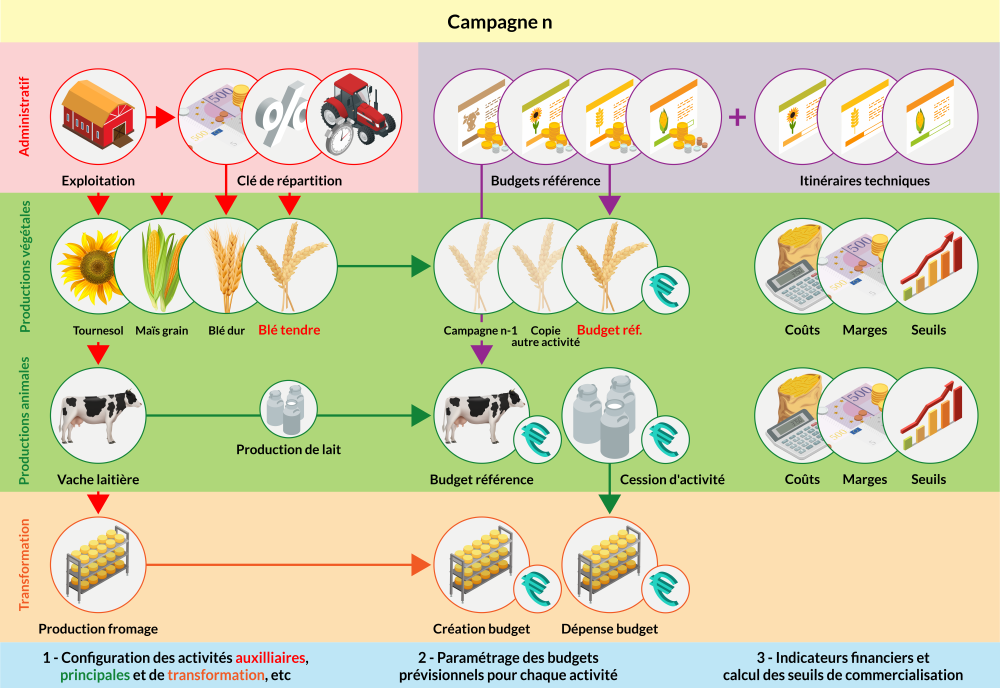
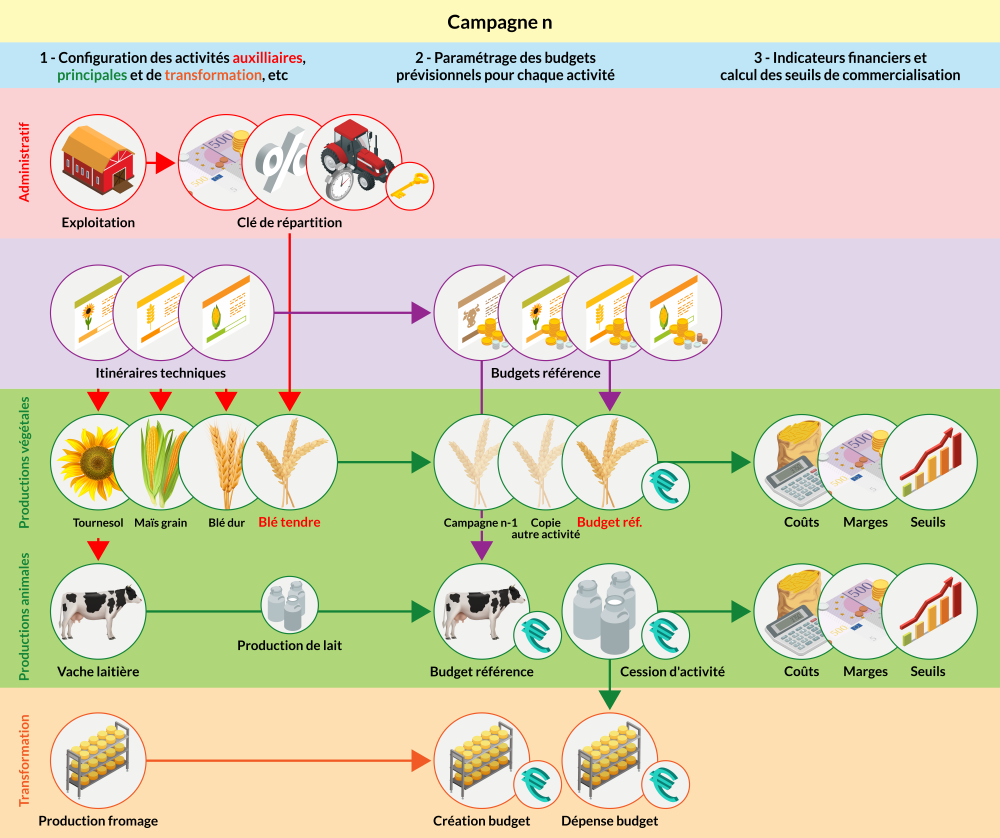
Nouveaux schémas perf.

diff --git a/content/fr/performance.html b/content/fr/performance.html
@@ -356,34 +356,9 @@
       <a class="slice-process" id="config"></a>
 	  <h2 class="texte aerateur">a - Instructions de configuration</h2>
 	  <p class="texte">Dans l'objectif de réaliser avec justesse le paramétrage initial des fonctionnalités proposées dans les offres <strong>Eky</strong>agri et <strong>Eky</strong>viti Performance, il convient de respecter  l'ordre des procédures abordées dans ce chapitre&nbsp;:</p>
-	  <div class="divTableListe marge">
-         <div class="divTableBody">
-            <div class="divTableRow">
-               <div class="divTableCellPlan">
-                  <img src="../images/commun/circle.svg" alt="Puce" height="15">
-               </div>
-               <div class="divTableCellPlan">
-                  Créez et configurez vos activités&nbsp;: administratives, de maintenance, de production &#40;végétales, animales, viticoles&#41;, de transformation, de prestation de service et de vinification&nbsp;;
-               </div>
-            </div>
-			<div class="divTableRow">
-               <div class="divTableCellPlan">
-                  <img src="../images/commun/circle.svg" alt="Puce" height="15">
-               </div>
-               <div class="divTableCellPlan">
-                  Définissez et ajustez le budget prévisionnel de chaque activité ouverte durant la campagne en cours, en fonction des dépenses, des recettes et des pratiques culturales propres à votre exploitation&nbsp;;
-               </div>
-            </div>
-			<div class="divTableRow">
-               <div class="divTableCellPlan">
-                  <img src="../images/commun/circle.svg" alt="Puce" height="15">
-               </div>
-               <div class="divTableCellPlan">
-                  Visualisez les indicateurs financiers et affectez des écritures comptables aux activités de votre choix. Simulez une estimation dynamique des seuils de commercialisation en fonction de vos charges et des prix du marché.
-               </div>
-            </div>
-         </div>
-      </div>
+	  <p class="texte"><strong>1</strong> - Créez et configurez vos activités&nbsp;: administratives, de maintenance, de production &#40;végétales, animales, viticoles&#41;, de transformation, de prestation de service et de vinification&nbsp;;</p>
+	  <p class="texte"><strong>2</strong> - Définissez et ajustez le budget prévisionnel de chaque activité ouverte durant la campagne en cours, en fonction des dépenses, des recettes et des pratiques culturales propres à votre exploitation&nbsp;;</p>
+	  <p class="texte"><strong>3</strong> - Visualisez les indicateurs financiers et affectez des écritures comptables aux activités de votre choix. Simulez une estimation dynamique des seuils de commercialisation en fonction de vos charges et des prix du marché.</p>
 	  <div class="affichage-large"></div>
       <div class="affichage-mobile">
          <p align="center">
@@ -413,10 +388,25 @@
       </div>
       <div class="scroll marge">
          <div class="tableau">
-            <p align="center" class="aerateur-haut aerateur-bas"><img src="../images/performance/schema-activites-perf.png" alt="Schéma activités" data-action="zoom" /></p>
+            <p align="center" class="aerateur-haut"><img src="../images/performance/schema-auxiliaires.png" class="contour-img" alt="Schéma activités auxiliaires" data-action="zoom" /></p>
          </div>
       </div>
+	  <p align="center" class="texte legende">Logique globale d'affectation des activités auxiliaires et des charges indirectes</p>
+	  <p class="texte"><strong>Notez que la prise en compte des charges indirectes générées par les immobilisations et les emprunts &#40;calculées au prorata de la marge brute&#41; n'est pas encore disponible dans la version actuelle de l'application.</strong></p>
 	  <p class="texte">Les "Activités auxiliaires" peuvent être configurées pour répartir les différents charges de l'exploitation, les frais de maintenance des équipements et les actions commerciales &#40;ventes&#41;.</p>
+	  <div class="affichage-mobile">
+         <p align="center">
+            <img src="../images/commun/scroll.svg" alt="Scroll" height="40" class="">
+            <br />
+            Glissez pour visualiser l'illustration
+         </p>
+      </div>
+      <div class="scroll marge">
+         <div class="tableau">
+            <p align="center" class="aerateur-haut"><img src="../images/performance/schema-principales.png" class="contour-img" alt="Schéma activités principales" data-action="zoom" /></p>
+         </div>
+      </div>
+	  <p align="center" class="texte legende">Logique globale de calcul du budget prévisionnel des activités principales</p>
 	  <p class="texte">Le calcul des coûts et des marges est réalisé par la <strong>méthode ABC</strong> &#40;Activity-Based Costing&#41;. Basée sur un objectif analytique des performances, elle permet de piloter les coûts d'une exploitation par activité et de faire une analyse plus fine que le simple calcul des coûts de revient. Dans la pratique, elle passe par un fin découpage du processus de calcul et s'attache à définir du mieux possible la provenance des coûts afin d'évaluer la performance économique réalisée pour chacune des activités. Avec ce procédé, les données obtenues deviennent un véritable instrument d'aide à la prise de décision.</p>
 	  <h6>Guide de prise en main • Performance • Activités auxiliaires</h6>
       <a class="slice-process" id="auxiliaires"></a>
